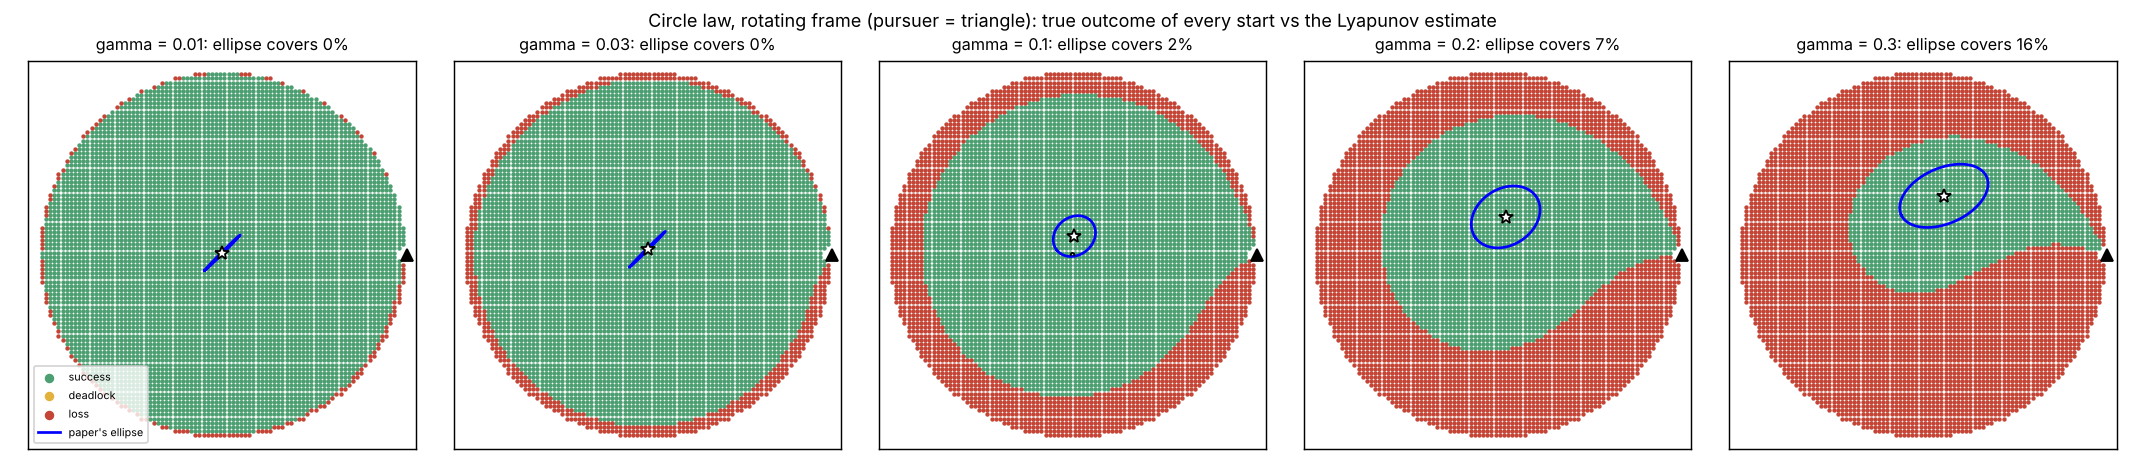
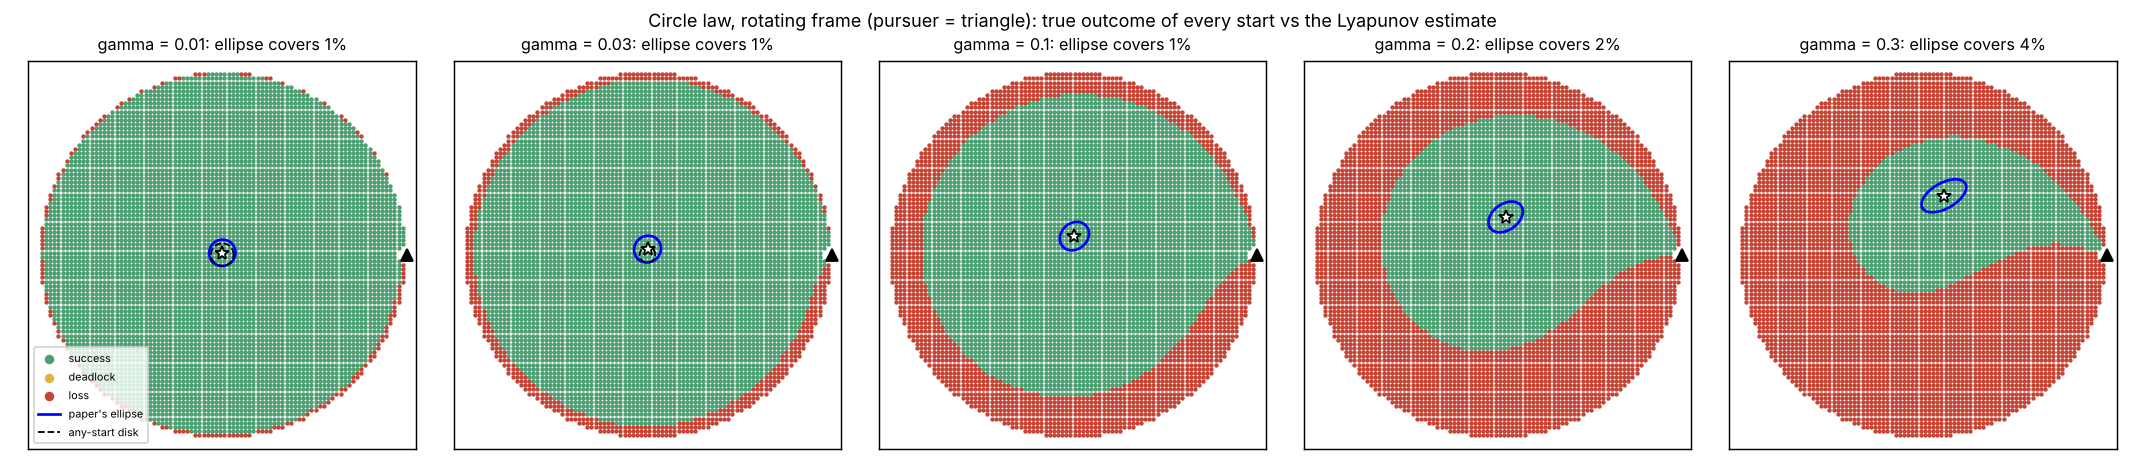
Theory comparison (circle law): Lyapunov ellipse certifies only 0.5-3.7 % of the truly converging starts
Claude-Session: https://claude.ai/code/session_01GFa46iTYsWFUdyGmf1m55y

diff --git a/models/theory_circle.py b/models/theory_circle.py
@@ -139,7 +139,7 @@ if __name__ == "__main__":
         ax.plot(1, 0, "k^", ms=7); ax.plot(*ws, "w*", ms=8, mec="k")
         ax.set_aspect("equal"); ax.set_xlim(-1.05, 1.05); ax.set_ylim(-1.05, 1.05)
         o = out[str(g)]
-        ax.set_title(f"gamma = {g}: ellipse covers {o['coverage_ellipse']:.0%}", fontsize=9)
+        ax.set_title(f"gamma = {g}: ellipse covers {o['coverage_ellipse']:.1%}", fontsize=9)
         ax.set_xticks([]); ax.set_yticks([])
     axes[0].legend(fontsize=6, loc="lower left", markerscale=3)
     fig.suptitle("Circle law, rotating frame (pursuer = triangle): true outcome of every start vs the Lyapunov estimate", fontsize=10)

diff --git a/results/theory/README.md b/results/theory/README.md
@@ -1,0 +1,31 @@
+# Theory vs data: how conservative is the proven region? (circle law, CDC 2024)
+
+Code: `models/theory_circle.py`. Numbers [measured]: `circle.json`. Figure: `circle.png`.
+
+Set-up (one evader, dimensionless R = w = 1, k = gamma; rotating frame, pursuer fixed at (1, 0)):
+- **Paper's estimate** (CDC 2024, Sec. III-C, Problem 6): the largest ellipse {(w - w*)' A (w - w*) <= c} on which
+  the quadratic Lyapunov function decreases. We solve the same problem: start from the Lyapunov-equation solution
+  A J + J' A = -I (as the paper does), optimise the shape with Nelder-Mead, and check dV/dt on dense grids.
+- **Any pursuer start** (CDC Sec. III-D): intersection of the ellipse rotated about the origin = a disk around the
+  origin (exists only if the origin is inside the ellipse).
+- **Truth**: a 90 x 90 grid of starts in the unit disk (CDC Assumption 1), each simulated 300 laps; "converges" = not lost.
+
+| gamma | true converging fraction of the disk | ellipse covers (of the truly converging starts) | any-start disk radius | false positives |
+|---|---|---|---|---|
+| 0.01 | 97.4 % | 0.5 % | 0.061 | 0 |
+| 0.03 | 90.4 % | 0.6 % | 0.042 | 0 |
+| 0.1 | 70.8 % | 1.0 % | none (origin outside the ellipse) | 0 |
+| 0.2 | 47.0 % | 1.6 % | none | 0 |
+| 0.3 | 24.9 % | 3.7 % | none | 0 |
+
+Plain words:
+- The certificate is **always correct** (no start inside the ellipse fails), but it covers only 0.5 % to 3.7 % of the
+  starts that really converge: the proven region is 27 to 190 times smaller than the true one.
+- Why: near the ring the motion is an almost undamped rotation (Jacobian eigenvalues about -0.005 +- 1i at
+  gamma = 0.01), so a quadratic Lyapunov function stops decreasing very close to the ring.
+- The classifiers (Phase 2) learn the true region almost perfectly for this law (99 % balanced accuracy).
+
+Honest note: our certified ellipse is smaller than the region drawn in the paper's Fig. 3/4 for R = 2, k = 1, w = 1
+(gamma = 0.125). We checked our result: along the limiting direction dV/dt really turns positive about 0.08 R from the
+ring (`models/theory_circle.py`, check printed during development). The paper used fmincon with its own constraint
+sampling, which we cannot see; we report our dense-grid version.
